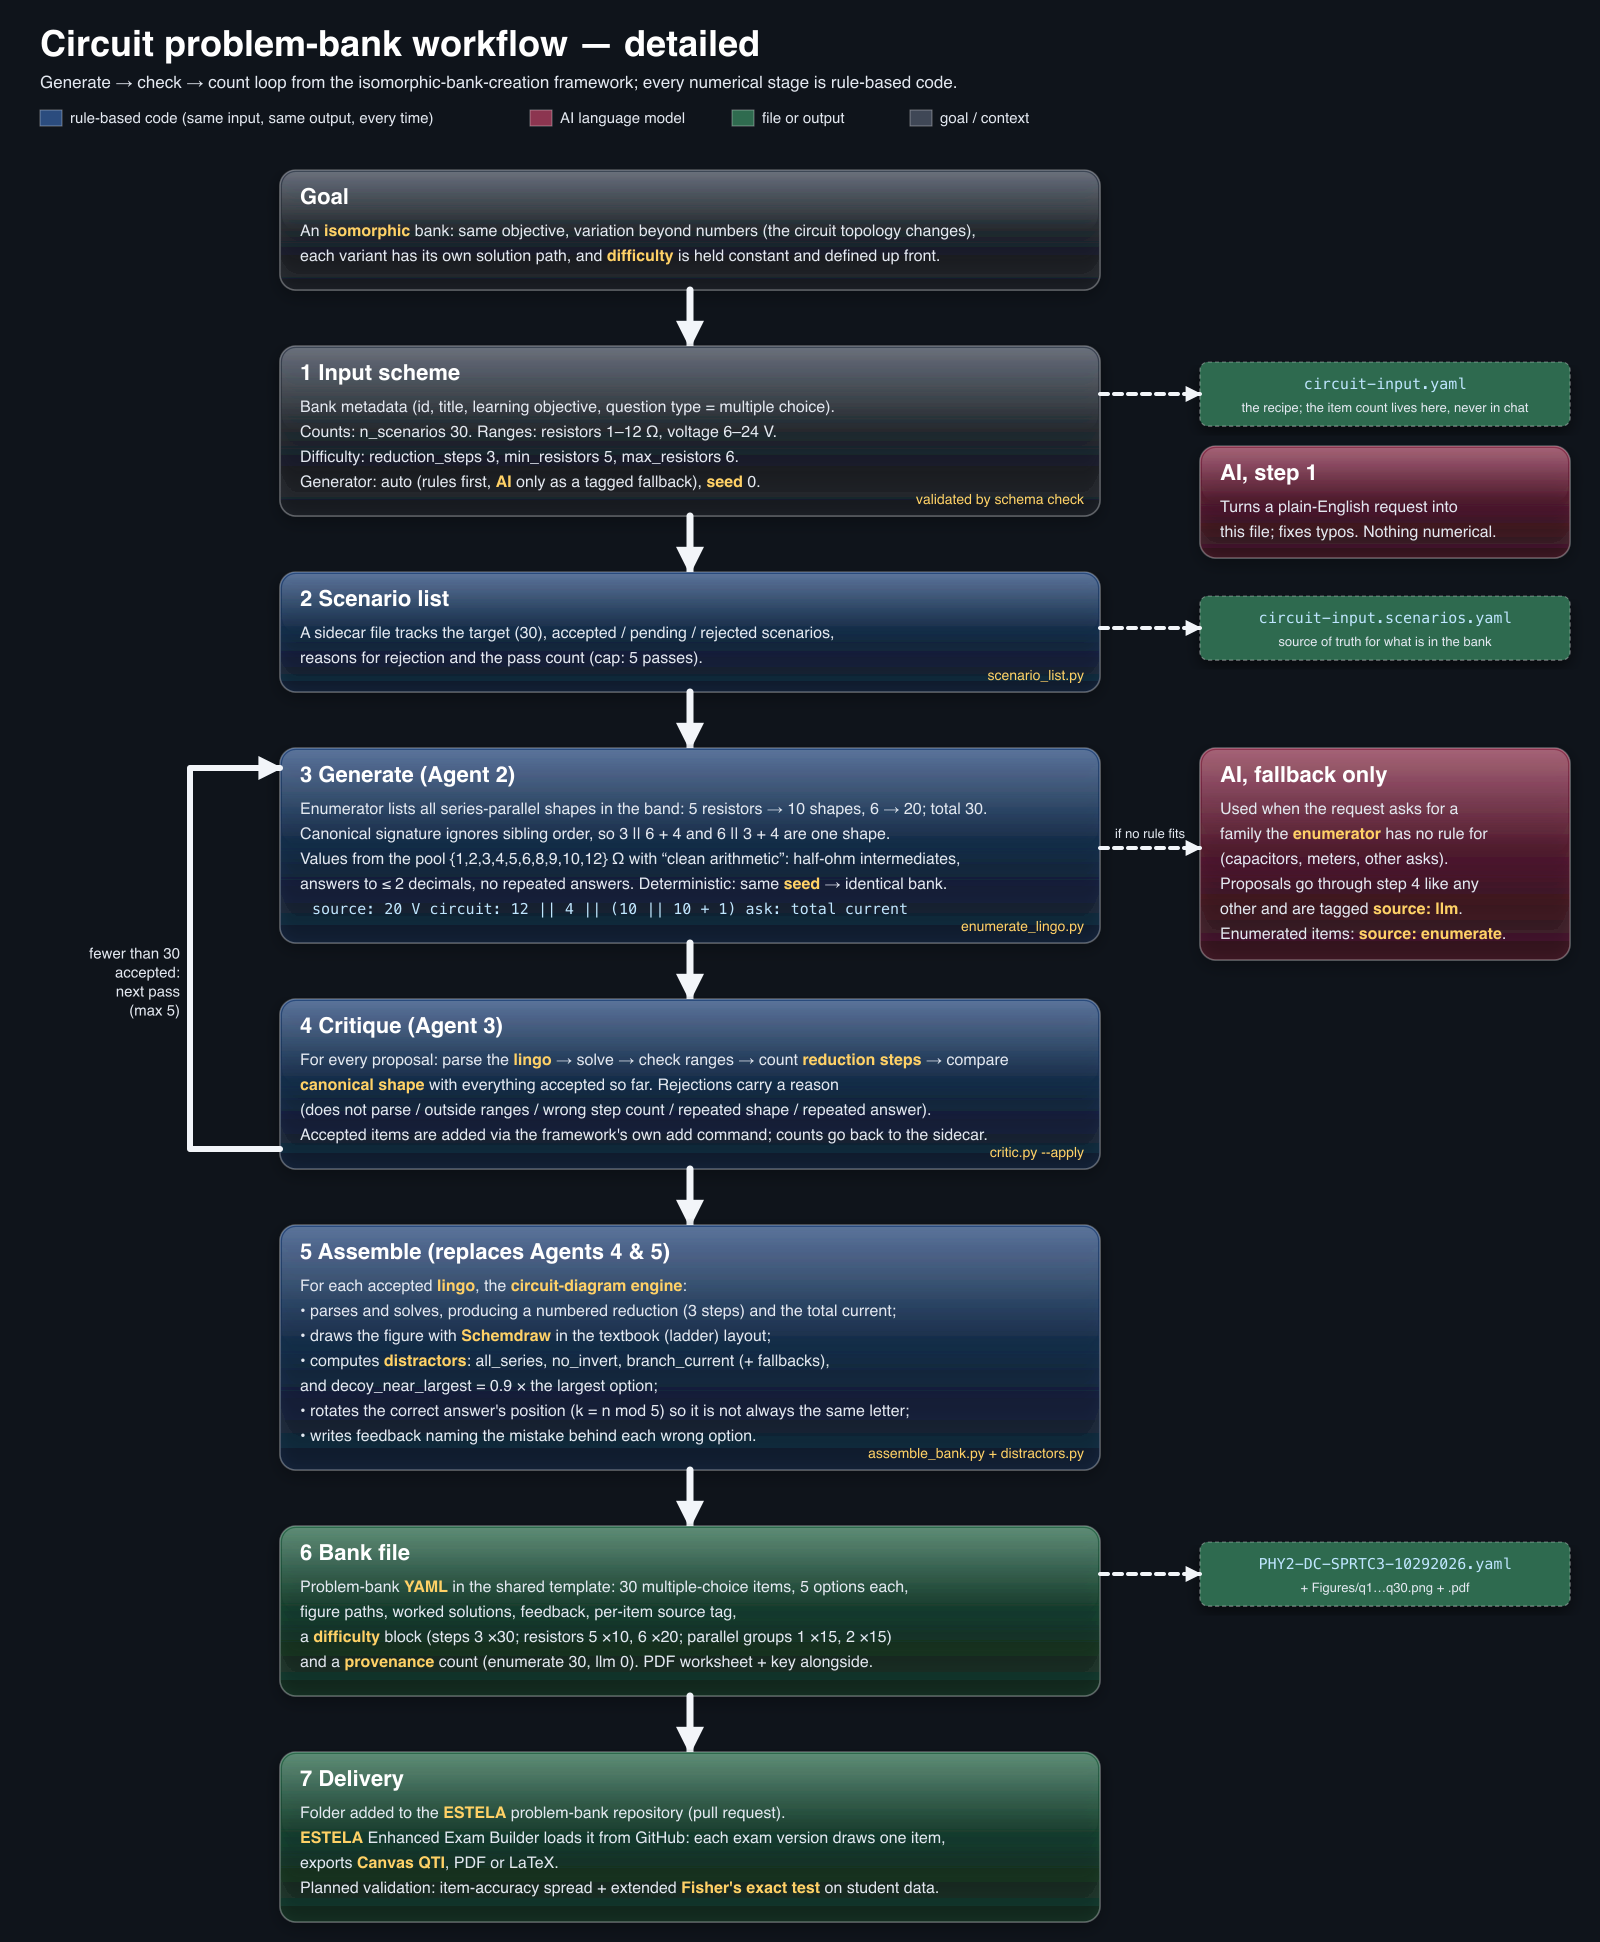
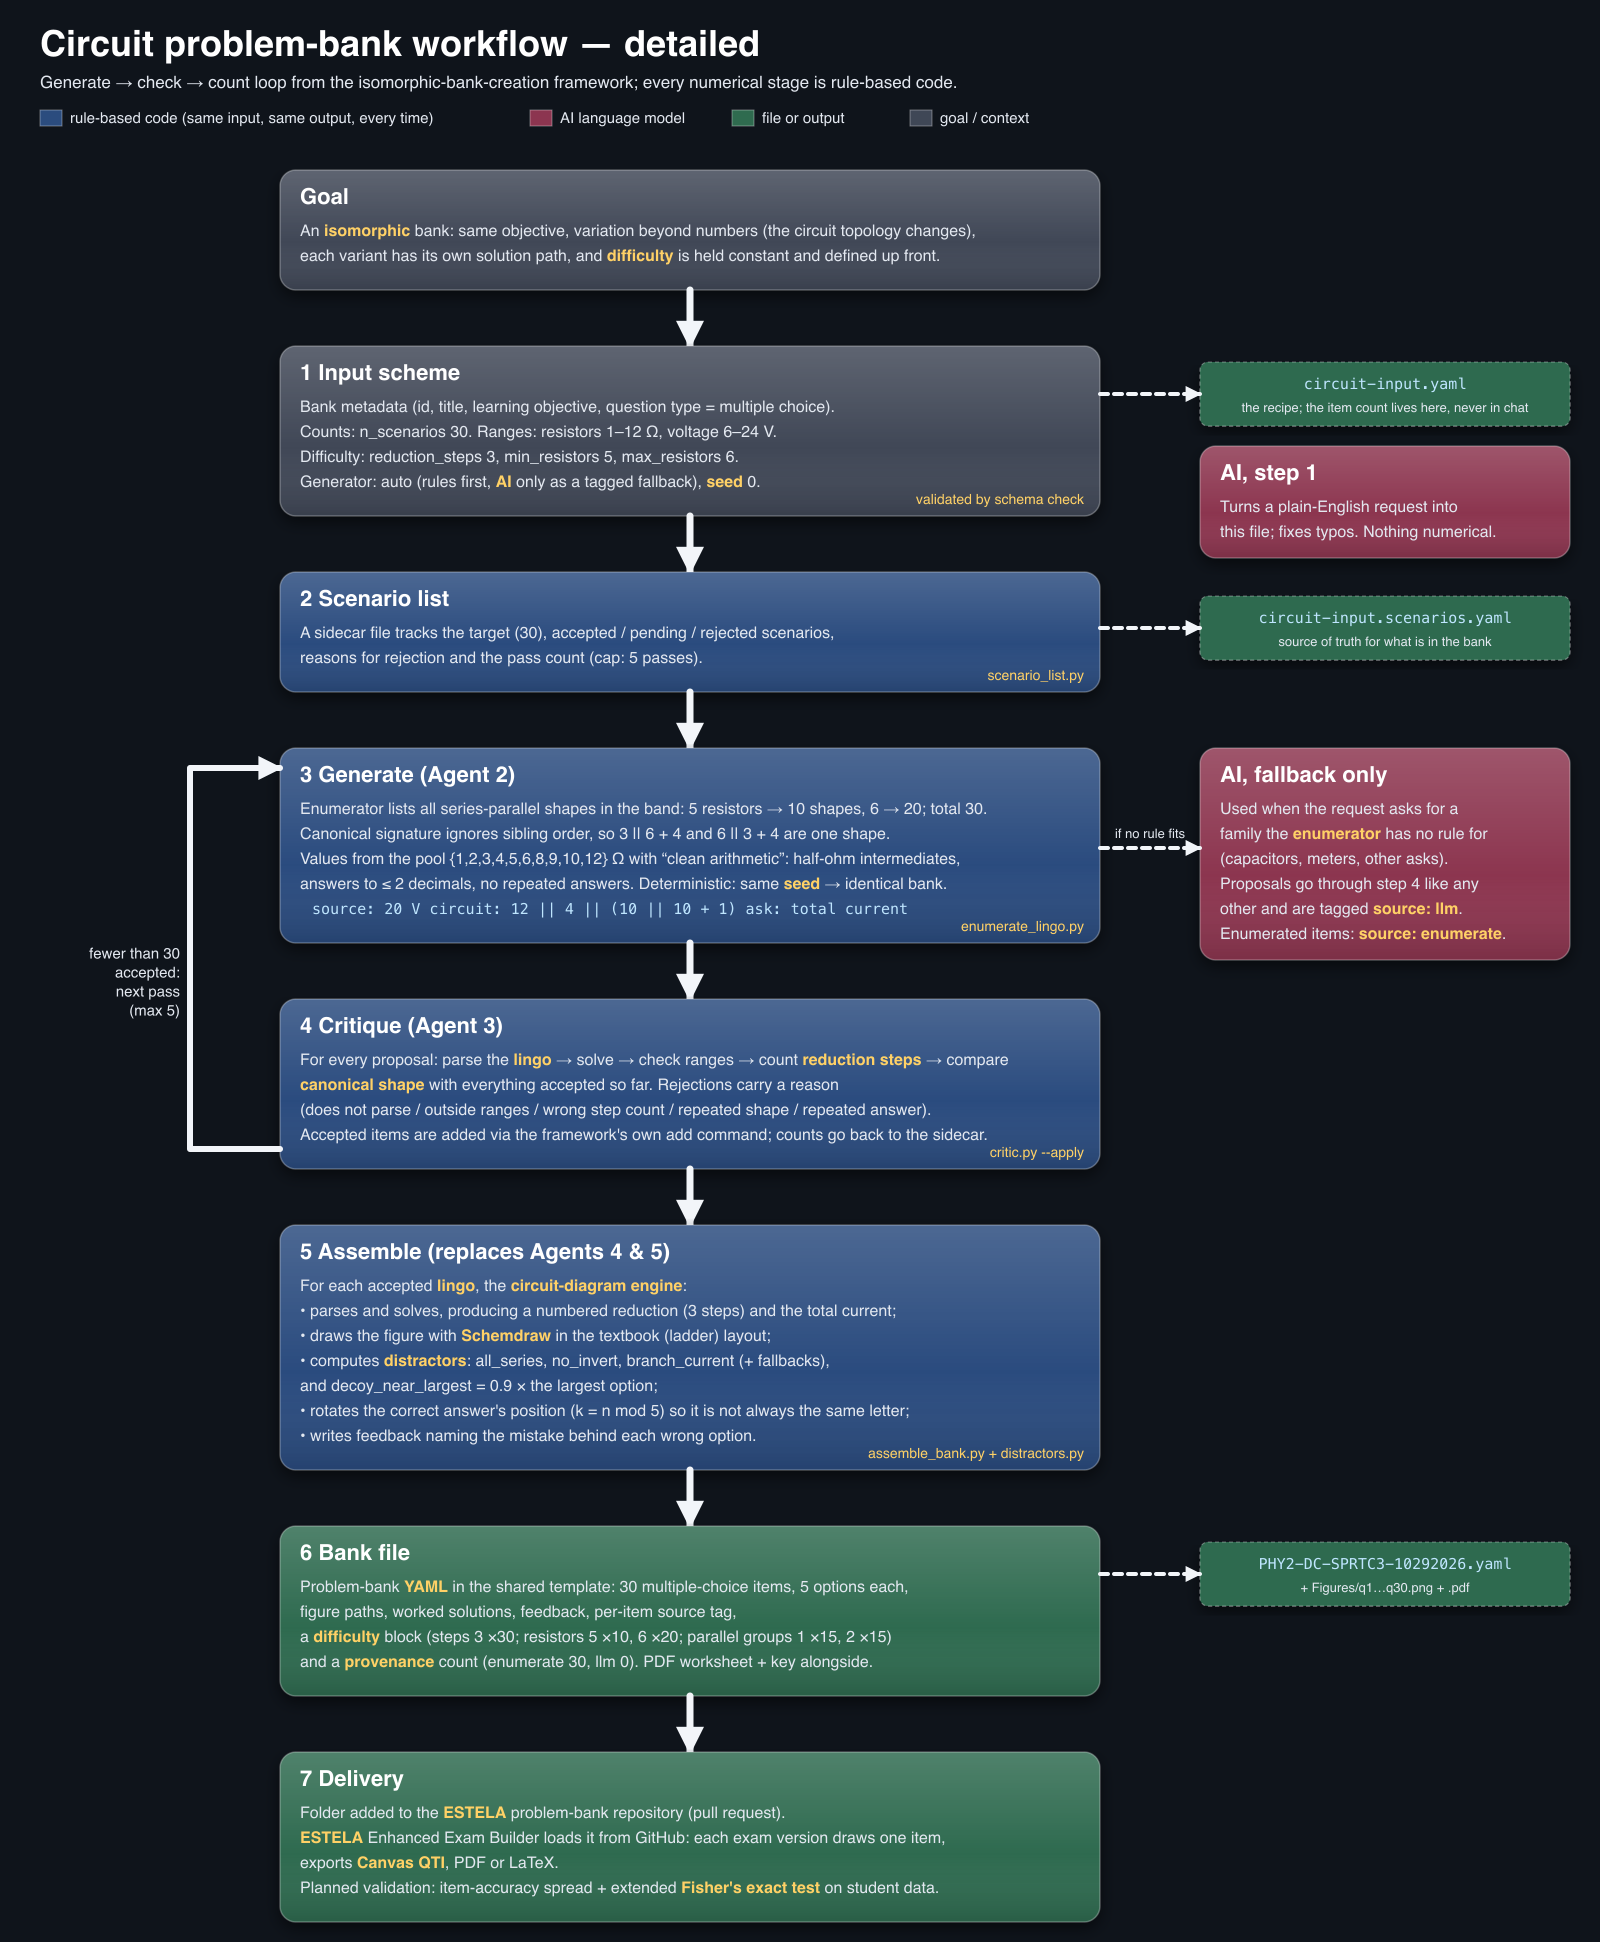
docs: dark charts use one smooth gradient per box (no banding)

diff --git a/docs/build_workflow_charts.py b/docs/build_workflow_charts.py
@@ -79,15 +79,15 @@ class Chart:
         top = self.y if y is None else y
         h = 52 + 25 * len(lines) + pad_bottom
         if T["glossy"]:
+            # one solid box with a single smooth gradient: a touch lighter at the top, the box colour below (no seams)
             gid = f"g{len(self.p)}"
             self.p.append(f'<linearGradient id="{gid}" x1="0" y1="0" x2="0" y2="1">'
-                          f'<stop offset="0" stop-color="{fill}" stop-opacity="1"/>'
-                          f'<stop offset="1" stop-color="#000000" stop-opacity="0.45"/></linearGradient>')
-            self.p.append(f'<rect x="{x}" y="{top}" width="{w}" height="{h}" rx="16" fill="{fill}"/>')
+                          f'<stop offset="0" stop-color="#FFFFFF" stop-opacity="0.16"/>'
+                          f'<stop offset="0.6" stop-color="#FFFFFF" stop-opacity="0"/>'
+                          f'<stop offset="1" stop-color="#000000" stop-opacity="0.12"/></linearGradient>')
+            self.p.append(f'<rect x="{x}" y="{top}" width="{w}" height="{h}" rx="16" fill="{fill}" filter="url(#shadow)"/>')
             self.p.append(f'<rect x="{x}" y="{top}" width="{w}" height="{h}" rx="16" fill="url(#{gid})" '
-                          f'stroke="{EDGE}" stroke-width="1.5" filter="url(#shadow)"/>')
-            # the sheen: a soft white band across the top half
-            self.p.append(f'<rect x="{x + 2}" y="{top + 2}" width="{w - 4}" height="{h * 0.48}" rx="14" fill="url(#sheen)"/>')
+                          f'stroke="{EDGE}" stroke-width="1.5"/>')
         else:
             self.p.append(f'<rect x="{x}" y="{top}" width="{w}" height="{h}" rx="14" fill="{fill}" stroke="{EDGE}" stroke-width="1.5"/>')
         self.text(x + 20, top + 34, title, 22, INK, weight="bold")
@@ -132,9 +132,7 @@ class Chart:
                 f'orient="auto-start-reverse"><path d="M0,0 L10,5 L0,10 z" fill="{T["arrow"]}"/></marker>'
                 '<filter id="shadow" x="-5%" y="-5%" width="110%" height="120%">'
                 '<feDropShadow dx="0" dy="6" stdDeviation="8" flood-color="#000" flood-opacity="0.55"/></filter>'
-                '<linearGradient id="sheen" x1="0" y1="0" x2="0" y2="1">'
-                '<stop offset="0" stop-color="#FFFFFF" stop-opacity="0.22"/>'
-                '<stop offset="1" stop-color="#FFFFFF" stop-opacity="0"/></linearGradient></defs>']
+                '</defs>']
         path.write_text("\n".join(head + self.p + ["</svg>"]), encoding="utf-8")
         if shutil.which("rsvg-convert"):
             subprocess.run(["rsvg-convert", "-z", "2", "-o", str(path.with_suffix(".png")), str(path)], check=True)
